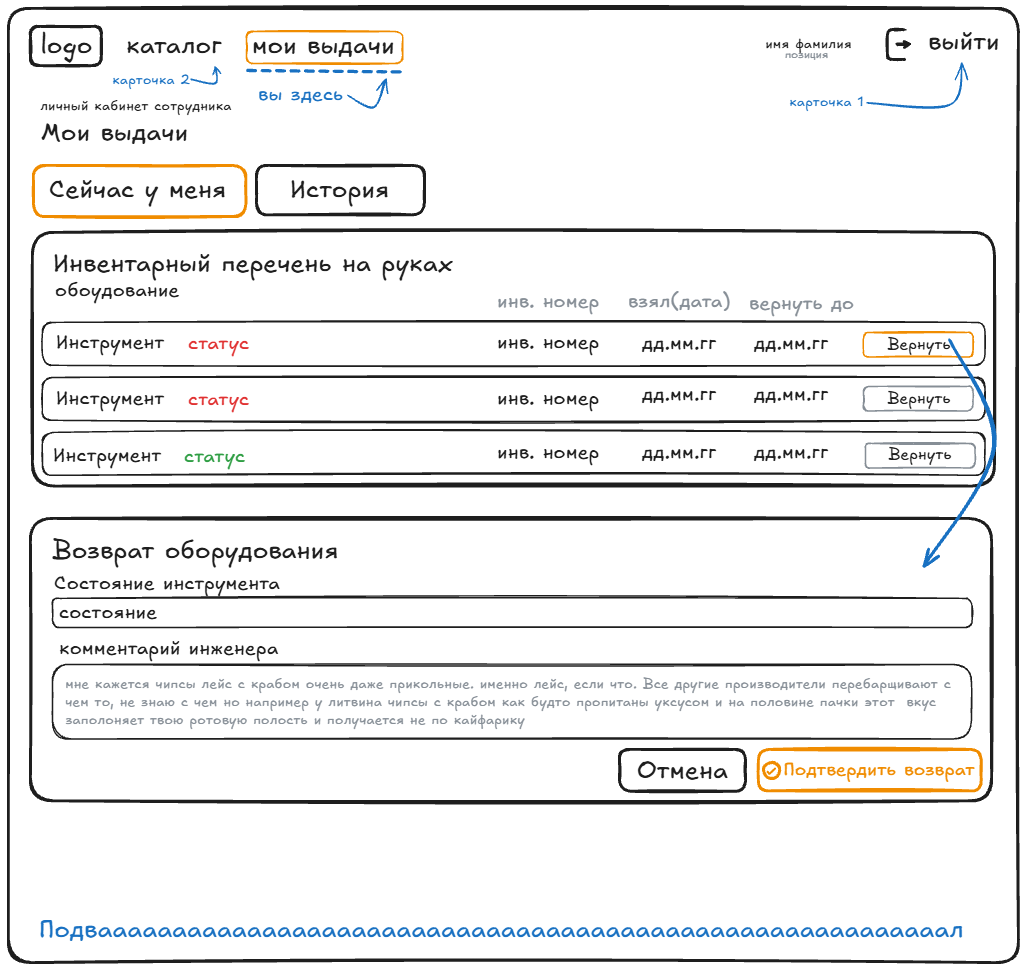
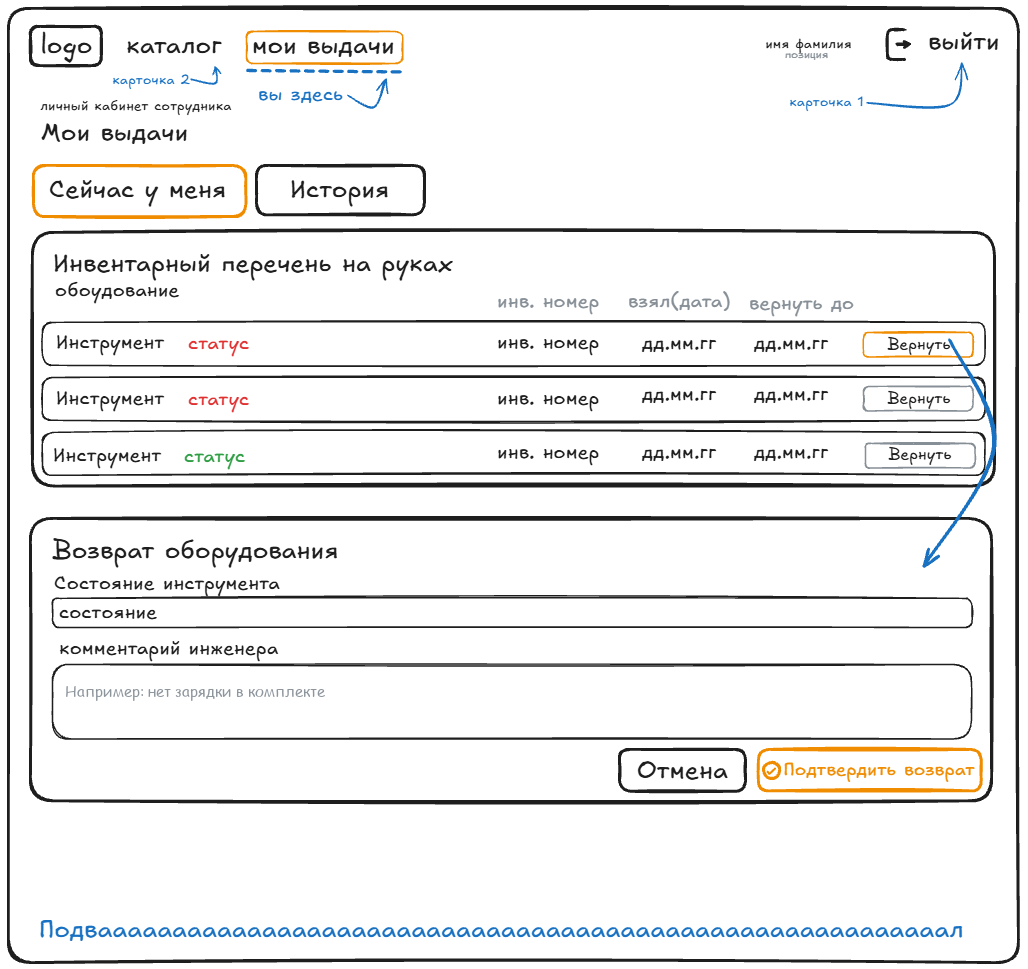
Документация: уточнены правила списания и возврата

Changed region(s): [[0.0623, 0.6811, 0.9027, 0.774]]

diff --git a/docs/architecture.md b/docs/architecture.md
@@ -3,7 +3,7 @@
 **Стек:** React (Vite) + Node.js + Express + PostgreSQL + Prisma
 **Назначение:** дипломный проект, демонстрация на защите (небольшой масштаб: десятки пользователей, сотни единиц оборудования).
 
-**Описание.** Веб-сайт, где сотрудники, выезжающие к клиентам, берут оборудование со склада на самовывоз, указывают срок возврата и возвращают его, отмечая состояние. Система хранит полную историю движения каждой единицы, показывает занятое оборудование как «Недоступно», строит отчёты и выгружает данные в Excel и PDF.
+**Описание.** Веб-сайт, где сотрудники, выезжающие к клиентам, берут оборудование со склада на самовывоз, указывают срок возврата и возвращают его, отмечая состояние. Система хранит полную историю движения каждой единицы, показывает занятое оборудование как «На руках», строит отчёты и выгружает данные в Excel и PDF.
 
 > **Мои решения:**
 > 1. Ролей три: гость (не вошёл), сотрудник, администратор.
@@ -32,7 +32,7 @@
 **Что входит в MVP (8 функций):**
 
 1. Вход в систему. Аккаунты сотрудников создаёт администратор (самостоятельной регистрации нет). Сотрудник может сменить свой пароль.
-2. Каталог оборудования со статусами («Доступно» / «Недоступно» / «В ремонте» / «Списано»).
+2. Каталог оборудования со статусами («Доступно» / «На руках» / «В ремонте» / «Списано»).
 3. Поиск по названию и инвентарному номеру, фильтр по категории и статусу.
 4. Карточка оборудования (описание, категория, статус, дата возврата, если занято; просроченная дата подсвечивается красным).
 5. Взять оборудование: выбрать срок возврата и (по желанию) указать цель выезда.
@@ -95,16 +95,17 @@
 | Б2 | Взять можно только оборудование со статусом «Доступно» (не в ремонте, не списанное) | Кнопку «Взять» можно «включить» в браузере или отправить запрос вручную |
 | Б3 | Срок возврата обязателен, должен быть в будущем и не дальше 30 дней | Дату можно подменить в запросе |
 | Б4 | Вернуть оборудование может только тот, кто его взял, или администратор; дважды вернуть нельзя | Иначе любой подставит чужой номер выдачи и «вернёт» чужое |
-| Б5 | При возврате состояние обязательно. Если оно не «Хорошее», статус автоматически становится «В ремонте» (уведомление админам вынесено в раздел 10 «Расширение») | Иначе сломанное оборудование попадёт обратно в выдачу |
+| Б5 | При возврате состояние обязательно: «Хорошее», «Есть мелкие повреждения» или «Сломано». Если оно не «Хорошее», статус автоматически становится «В ремонте» (уведомление админам вынесено в раздел 10 «Расширение») | Иначе сломанное оборудование попадёт обратно в выдачу |
 | Б6 | Сотрудник видит только свои выдачи; полная история и отчёты доступны только администратору | Скрыть кнопку не значит закрыть данные: адрес API можно открыть напрямую |
 | Б7 | Менять каталог, категории, статусы и пользователей может только администратор | То же: роль проверяется на сервере по данным из базы (токен хранит только `id`), а не по интерфейсу |
 | Б8 | Оборудование с историей нельзя удалить, только списать | Иначе история выдач потеряет смысл (ссылки в никуда), а доказать, кто что брал, будет нельзя |
 | Б9 | Самостоятельной регистрации нет: аккаунты и роли создаёт только администратор | Это внутренняя система компании. Иначе любой человек из интернета создаст себе аккаунт и сможет «брать» оборудование, а в запросе регистрации можно было бы дописать `role: ADMIN` |
 | Б10 | Email уникален без учёта регистра (`Ivan@…` и `ivan@…` это один человек): перед сохранением и при входе он приводится к нижнему регистру; пароль не короче 8 символов | Проверка в браузере не мешает отправить запрос в обход формы |
 | Б11 | Заблокированный пользователь не может войти и брать оборудование. *Блокировка (кнопка и `PATCH /api/users/:id`) делается на этапе 2, но поле `is_active` и проверка в middleware работают уже в MVP* | Токен, выданный до блокировки, ещё работает, и сервер должен проверять статус при каждом запросе |
-| Б12 | Статус «Выдано» (`ISSUED`) ставится и снимается **только** через «взять» и «вернуть». Пока у оборудования есть активная выдача (`returned_at` пусто), администратор не может сменить статус вручную: ответ 409 «Сначала оформите возврат» | Иначе админ «освободит» оборудование, которое ещё у сотрудника, и второй человек возьмёт его, хотя первый не вернул. Кнопку можно скрыть, но запрос всё равно можно отправить вручную |
+| Б12 | Статус «На руках» (`ISSUED`) ставится и снимается **только** через «взять» и «вернуть». Пока у оборудования есть активная выдача (`returned_at` пусто), администратор не может сменить статус вручную: ответ 409 «Сначала оформите возврат» | Иначе админ «освободит» оборудование, которое ещё у сотрудника, и второй человек возьмёт его, хотя первый не вернул. Кнопку можно скрыть, но запрос всё равно можно отправить вручную |
 | Б13 | Сотрудник может сменить свой пароль, указав текущий. Новый пароль не короче 8 символов и не совпадает с текущим. Начальный пароль, который задал админ, считается временным | Начальный пароль знает администратор, значит, он мог бы зайти под чужим именем. Проверку «текущий пароль верный» нельзя оставлять браузеру |
 | Б14 | Выдача **просрочена**, если `due_at` в прошлом, а `returned_at` пусто. Это не статус в базе, а вычисляемый признак: его считает сервер по своим часам и отдаёт полем `isOverdue` | Если считать в браузере, результат зависит от часов и часового пояса пользователя |
+| Б15 | Списание окончательное: статус «Списано» нельзя изменить; сервер отвечает 409 | Иначе списанное оборудование можно будет вернуть в оборот в обход интерфейса |
 
 ---
 
@@ -245,7 +246,7 @@ erDiagram
 | GET | `/api/equipment/:id` | Карточка оборудования | Сотрудник, админ | 4 |
 | POST | `/api/equipment` | Добавить оборудование | Админ | 8 |
 | PUT | `/api/equipment/:id` | Изменить оборудование | Админ | 8 |
-| PATCH  | `/api/equipment/:id/status`                   | Сменить статус (REPAIR, WRITTEN_OFF, AVAILABLE); при активной выдаче → 409 (Б12) | Админ                    | 9           |
+| PATCH  | `/api/equipment/:id/status`                   | Сменить статус (REPAIR, WRITTEN_OFF, AVAILABLE); при активной выдаче или статусе WRITTEN_OFF → 409 (Б12, Б15) | Админ                    | 9           |
 | GET | `/api/equipment/:id/loans` | История движения единицы | Админ | 10 |
 | GET | `/api/categories` | Список категорий | Сотрудник, админ | 3 |
 | POST | `/api/categories` | Создать категорию | Админ | 8 |

diff --git a/docs/design.md b/docs/design.md
@@ -1,9 +1,9 @@
 ---
 name: Кейс
 colors:
-  surface: '#fbf9f9'
+  surface: '#F8F9FA'
   surface-dim: '#dbdad9'
-  surface-bright: '#fbf9f9'
+  surface-bright: '#F8F9FA'
   surface-container-lowest: '#ffffff'
   surface-container-low: '#f5f3f3'
   surface-container: '#efeded'
@@ -21,7 +21,7 @@ colors:
   primary-container: '#CC4800'
   on-primary-container: '#fffbff'
   inverse-primary: '#ffb59a'
-  secondary: '#5f5e5e'
+  secondary: '#212121'
   on-secondary: '#ffffff'
   secondary-container: '#e2dfde'
   on-secondary-container: '#636262'
@@ -45,7 +45,7 @@ colors:
   tertiary-fixed-dim: '#abc7ff'
   on-tertiary-fixed: '#001b3f'
   on-tertiary-fixed-variant: '#00458f'
-  background: '#fbf9f9'
+  background: '#F8F9FA'
   on-background: '#1b1c1c'
   surface-variant: '#e3e2e2'
 typography:
@@ -129,10 +129,6 @@ spacing:
 ## Стиль и основа
 - **Три слова о стиле:** рабочий, светлый, чёткий
 - **Главный цвет:** оранжевый `#E65100` (только кнопки, активное меню, акценты)
-- **Примеры сайтов (идея и настроение, не копия):**
-  1. <ВСТАВЬ ССЫЛКУ 1 (dribbble.com / behance.net)>
-  2. <ВСТАВЬ ССЫЛКУ 2>
-  3. <ВСТАВЬ ССЫЛКУ 3, по желанию>
 - **Проект:** «Кейс» — информационная система учёта оборудования для выездных работ. Экраны: вход, каталог, карточка оборудования, мои выдачи, админ-панель оборудования.
 
 ## Не входит в MVP (не рисовать и не добавлять)
@@ -155,10 +151,10 @@ The palette balances a focused, industrial orange primary tone against a stark, 
 
 ### Semantic Equipment Status Badges
 Status indicators must strictly adhere to the following badge definitions to eliminate cognitive latency:
-- **Available / Доступно**: Background `#E8F5E9`, text `#1B5E20`.
-- **In Use / Unassigned / Недоступно / На руках**: Background `#F5F5F5`, text `#616161`.
-- **In Repair / Maintenance / В ремонте**: Background `#FFEBEE`, text `#C62828`.
-- **Decommissioned / Списано**: Background `#EEEEEE`, text `#757575`.
+- **Доступно**: Background `#E8F5E9`, text `#1B5E20`.
+- **На руках**: Background `#F5F5F5`, text `#616161`.
+- **В ремонте**: Background `#FFEBEE`, text `#C62828`.
+- **Списано**: Background `#EEEEEE`, text `#757575`.
 
 ## Typography
 
@@ -183,7 +179,7 @@ The layout employs a dense, structured fluid-grid layout bounded inside a maximu
 
 In alignment with industrial utilitarian minimalism, depth is achieved almost entirely through flat structural layering and crisp borders rather than soft, ambient shadows.
 
-- **Layer 0 (Canvas)**: Background `#F8F9FA` or `#FFFFFF`.
+- **Layer 0 (Canvas)**: Background `#F8F9FA`.
 - **Layer 1 (Cards, Panel Containers, Tables)**: Pure white `#FFFFFF` bounded by a solid 1px `#E0E0E0` border.
 - **Layer 2 (Overlays, Flyouts, Slide-over Panels)**: Pure white surface with a 1px `#D0D0D0` border accompanied by an intentional, tight utility shadow: `0 4px 12px rgba(0, 0, 0, 0.08)`.
 - **Active Focus**: `box-shadow: 0 0 0 2px #FFFFFF, 0 0 0 4px #E65100` for clear keyboard accessibility.
@@ -205,7 +201,7 @@ Geometry is intentionally firm and architectural:
 ### Badges & Status Indicators
 Rendered as inline-flex items, font size 11px, font-weight 600, padding 2px 8px, border-radius 4px, non-pill format:
 - **Доступно**: Background `#E8F5E9`, text `#1B5E20`, border 1px solid transparent.
-- **Недоступно / На руках**: Background `#F5F5F5`, text `#616161`, border 1px solid `#E0E0E0`.
+- **На руках**: Background `#F5F5F5`, text `#616161`, border 1px solid `#E0E0E0`.
 - **В ремонте**: Background `#FFEBEE`, text `#C62828`, border 1px solid transparent.
 - **Списано**: Background `#EEEEEE`, text `#757575`, border 1px solid transparent.
 
